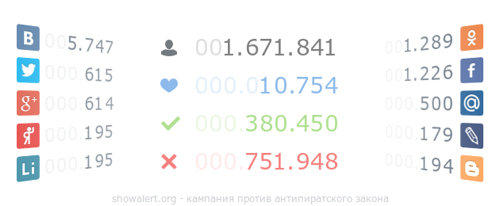
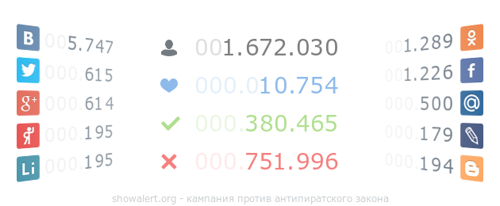
update statistics files for plugins

Changed region(s): [[0.54, 0.1748, 0.69, 0.2913], [0.6, 0.7282, 0.69, 0.8447], [0.6, 0.5534, 0.69, 0.6408]]

diff --git a/votes.js b/votes.js
@@ -1,1 +1,1 @@
-window.lk.votes(31585)
+window.lk.votes(31597)
